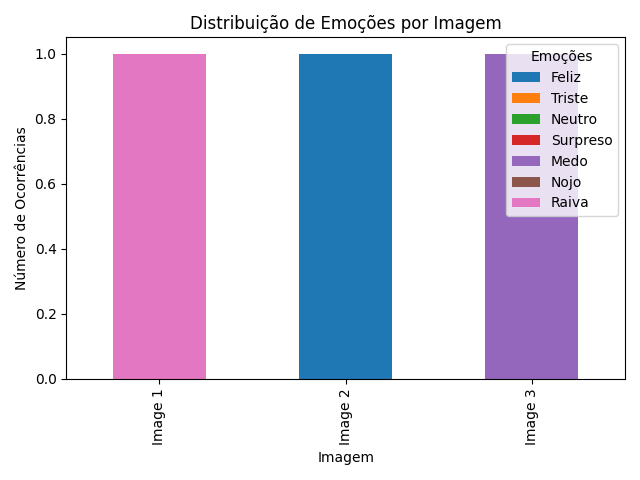
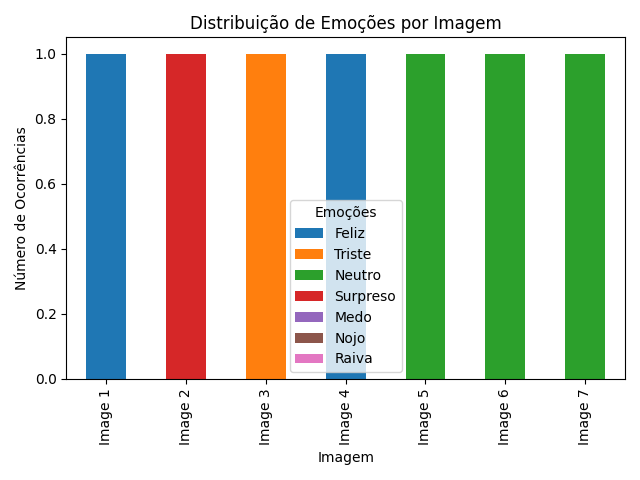
feat: add face reconize

diff --git a/relatorio_emocoes.html b/relatorio_emocoes.html
@@ -6,15 +6,13 @@
     </head>
     <body>
         <h1>Relatório de Emoções dos Alunos</h1>
-        <p><strong>Data:</strong> 18/06/2024 16:16</p>
-        <p><strong>Nome do Aluno:</strong> DEVE SER VARIAVEL</p>
+        <p><strong>Data:</strong> 18/06/2024 17:48</p>
         <p><strong>Professor:</strong> Prof. Claudionor</p>
         <p><strong>Instituição de Ensino:</strong> Universidade Adventista de São Paulo</p>
         <p><strong>Disciplina:</strong> Processamento de Imagens  Visão Computacional</p>
         
         <h2>Resumo Geral</h2>
         <p><strong>Duração da Aula:</strong> 60 minutos</p>
-        <p><strong>Emoção Predominante:</strong> DEVE SER VARIAVEL DE ACORDO COM A QUANTIADE DE IMAGENS QUE SERÃO PASSADA DO ALUNO</p>
 
         <h2>Distribuição de Emoções ao Longo da Aula</h2>
         <table border="1">
@@ -31,9 +29,9 @@
             
             <tr>
                 <td>Image 1</td>
-                <td>0</td>
-                <td>0</td>
                 <td>1</td>
+                <td>0</td>
+                <td>0</td>
                 <td>0</td>
                 <td>0</td>
                 <td>0</td> 
@@ -43,6 +41,30 @@
             
             <tr>
                 <td>Image 2</td>
+                <td>0</td>
+                <td>0</td>
+                <td>0</td>
+                <td>0</td>
+                <td>0</td>
+                <td>1</td> 
+                <td>0</td> 
+
+            </tr>
+            
+            <tr>
+                <td>Image 3</td>
+                <td>0</td>
+                <td>1</td>
+                <td>0</td>
+                <td>0</td>
+                <td>0</td>
+                <td>0</td> 
+                <td>0</td> 
+
+            </tr>
+            
+            <tr>
+                <td>Image 4</td>
                 <td>1</td>
                 <td>0</td>
                 <td>0</td>
@@ -54,14 +76,38 @@
             </tr>
             
             <tr>
-                <td>Image 3</td>
+                <td>Image 5</td>
                 <td>0</td>
                 <td>0</td>
                 <td>0</td>
                 <td>0</td>
-                <td>1</td>
+                <td>0</td>
                 <td>0</td> 
+                <td>1</td> 
+
+            </tr>
+            
+            <tr>
+                <td>Image 6</td>
+                <td>0</td>
+                <td>0</td>
+                <td>0</td>
+                <td>0</td>
+                <td>0</td>
                 <td>0</td> 
+                <td>1</td> 
+
+            </tr>
+            
+            <tr>
+                <td>Image 7</td>
+                <td>0</td>
+                <td>0</td>
+                <td>0</td>
+                <td>0</td>
+                <td>0</td>
+                <td>0</td> 
+                <td>1</td> 
 
             </tr>
             
@@ -70,7 +116,6 @@
         <!-- Imagens dos gráficos podem ser inseridas aqui -->
         <h2>Gráficos</h2>
         
-        <img src="graph_barras.png" alt="Gráfico de Barras">
         <img src="graph_linhas.png" alt="Linha do Tempo">
         <img src="graph_pizza.png" alt="Gráfico de Pizza">
 

diff --git a/result_stats.py b/result_stats.py
@@ -6,42 +6,31 @@ import pytz
 
 
 def buildReport(df):
-    # Passo 1: Preparar os Dados
-
-    # Exemplo de dados
-    # data = {
-    #     'image': ['image 1', 'image 2', 'image 3'],
-    #     'feliz': [1, 0, 1],
-    #     'triste': [0, 1, 0],
-    #     'neutro': [0, 0, 0]
-    # }
-
-    # df = pd.DataFrame(data)
-    # print(df)
-
     # Passo 2: Gerar Gráficos
     # Gráfico de Barras
 
-    # Gráfico de Barras Empilhadas
-    def plot_stacked_bar_chart(df):
-        df.set_index('Image')[['Feliz', 'Triste', 'Neutro','Surpreso','Medo','Nojo','Raiva']].plot(kind='bar', stacked=True)
-        plt.title('Distribuição de Emoções por Imagem')
-        plt.xlabel('Imagem')
-        plt.ylabel('Número de Ocorrências')
-        plt.legend(title='Emoções')
-        plt.tight_layout()
-        plt.savefig('graph_barras.png')
-        # plt.show()
-
-    # Linha do Tempo
-
     # Gráfico de Linhas
     def plot_line_chart(df):
-        df.set_index('Image')[['Feliz', 'Triste', 'Neutro','Surpreso','Medo','Nojo','Raiva']].plot(kind='line', marker='o')
+
+        emotion_sums = df[['Feliz', 'Triste', 'Neutro','Surpreso','Medo','Nojo','Raiva']].sum()
+
+        # Adicionando uma nova linha com os somatórios ao DataFrame
+        sum_row = pd.DataFrame(emotion_sums).T
+        sum_row['Image'] = 'Total'
+        df_extended = pd.concat([df, sum_row], ignore_index=True)
+
+        df_extended.set_index('Image')[['Feliz', 'Triste', 'Neutro','Surpreso','Medo','Nojo','Raiva']].plot(kind='line', marker='o')
         plt.title('Evolução das Emoções ao Longo das Imagens')
         plt.xlabel('Imagem')
         plt.ylabel('Número de Ocorrências')
         plt.legend(title='Emoções')
+        
+        y_min=0
+        y_max=4
+        # Definindo os limites do eixo Y, se fornecidos
+        if y_min is not None and y_max is not None:
+            plt.ylim(y_min, y_max)
+
         plt.tight_layout()
         plt.savefig('graph_linhas.png')
         # plt.show()
@@ -61,7 +50,6 @@ def buildReport(df):
         # plt.show()
 
     # Plotar os gráficos
-    plot_stacked_bar_chart(df)
     plot_line_chart(df)
     plot_pie_chart(df)
 
@@ -78,14 +66,12 @@ def buildReport(df):
     <body>
         <h1>Relatório de Emoções dos Alunos</h1>
         <p><strong>Data:</strong> {{ data_aula }}</p>
-        <p><strong>Nome do Aluno:</strong> {{ Nome_aluno }}</p>
         <p><strong>Professor:</strong> {{ professor }}</p>
         <p><strong>Instituição de Ensino:</strong> {{ Instituicao }}</p>
         <p><strong>Disciplina:</strong> {{ disciplina }}</p>
         
         <h2>Resumo Geral</h2>
         <p><strong>Duração da Aula:</strong> {{ duracao_aula }}</p>
-        <p><strong>Emoção Predominante:</strong> {{ emocao_predominante }}</p>
 
         <h2>Distribuição de Emoções ao Longo da Aula</h2>
         <table border="1">
@@ -117,7 +103,6 @@ def buildReport(df):
         <!-- Imagens dos gráficos podem ser inseridas aqui -->
         <h2>Gráficos</h2>
         
-        <img src="graph_barras.png" alt="Gráfico de Barras">
         <img src="graph_linhas.png" alt="Linha do Tempo">
         <img src="graph_pizza.png" alt="Gráfico de Pizza">
 
@@ -162,9 +147,7 @@ def buildReport(df):
         'professor': 'Prof. Claudionor',
         'disciplina': 'Processamento de Imagens  Visão Computacional',
         'Instituicao': 'Universidade Adventista de São Paulo',
-        'Nome_aluno': 'DEVE SER VARIAVEL',
         'duracao_aula': '60 minutos',
-        'emocao_predominante': 'DEVE SER VARIAVEL DE ACORDO COM A QUANTIADE DE IMAGENS QUE SERÃO PASSADA DO ALUNO',
         'distribuicao_emocoes': df.to_dict(orient='records'),
 
     }
@@ -216,7 +199,4 @@ def dataReport(original_data):
     buildReport(df)
 
 
-if __name__ == '__main__':
-    dados = [{'imagem': 'b09ac60b-2d9c-11ef-b2f8-80bf07906c97.jpg', 'expressao': 'Raiva'}, {'imagem': 'bc9fd905-2d9c-11ef-9252-80bf07906c97.jpg', 'expressao': 'Feliz'}, {'imagem': 'c2c8f9f4-2d9c-11ef-b14e-80bf07906c97.jpg', 'expressao': 'Medo'}]
-    dataReport(dados)
 

diff --git a/main.py b/main.py
@@ -1,0 +1,101 @@
+import cv2
+import numpy as np
+import pandas as pd
+import os
+import uuid
+import zipfile
+import tensorflow
+from tensorflow.keras.models import load_model
+from tensorflow.keras.preprocessing.image import img_to_array
+
+# Verifica se a pasta Modelo já existe, se não existir ela é extraída
+if not os.path.isdir('./Modelo'):
+    path = 'Modelo.zip'
+    zip_object = zipfile.ZipFile(file = path, mode = 'r')
+    zip_object.extractall('./')
+    zip_object.close
+
+cascade_faces = 'Modelo/haarcascade_frontalface_default.xml'
+caminho_modelo = 'Modelo/modelo_01_expressoes.h5'
+face_detection = cv2.CascadeClassifier(cascade_faces)
+classificador_emocoes = load_model(caminho_modelo, compile = False)
+expressoes = ['Raiva', 'Nojo', 'Medo', 'Feliz', 'Triste', 'Surpreso', 'Neutro']
+
+# Setup Pathsq
+CAPTURE_PATH = os.path.join('data', 'capture')
+
+# Verifica se existe menos que 3 fotos, se existir 3 ou mais não abre a câmera
+if len(os.listdir(CAPTURE_PATH)) < 3:
+    # Establish a connection to the webcam
+    cap = cv2.VideoCapture(0)
+    while cap.isOpened():
+        ret, frame = cap.read()
+        
+        # # Cut down frame to 250x250px
+        # frame = frame[120:120+250, 200:200+250, :]
+            
+        # Show image back to screen
+        cv2.imshow('Image Collection',frame)
+        
+        # Collect anchors
+        if cv2.waitKey(1) & 0XFF == ord('c'):
+            # Create the unique file path
+            imgname = os.path.join(CAPTURE_PATH, '{}.jpg'.format(uuid.uuid1()))
+            # Write out anchor image 
+            cv2.imwrite(imgname,frame)
+
+        # Breaking gracefully
+        if cv2.waitKey(1) & 0XFF == ord('q'):
+            break
+
+    # Release the webcam
+    cap.release()
+    # Close the image show frame
+    cv2.destroyAllWindows()
+
+resultados = []
+
+for nome_arquivo in os.listdir(CAPTURE_PATH):
+    imagem = cv2.imread(os.path.join(CAPTURE_PATH, nome_arquivo))
+    # cv2.imshow("Display", imagem)
+    # cv2.waitKey(0)
+    original = imagem.copy()
+    faces = face_detection.detectMultiScale(original, scaleFactor = 1.1,
+                                        minNeighbors = 3, minSize = (20,20))
+    
+    cinza = cv2.cvtColor(original, cv2.COLOR_BGR2GRAY)
+    # cv2.imshow("Display", cinza)
+    # cv2.waitKey(0)
+    for (x, y, l, a) in faces:
+        cv2.rectangle(original, (x,y), (x+l, y+a), (0, 255, 0), 2)
+        # cv2.imshow("Display", original)
+        # cv2.waitKey(0)
+        roi = cinza[y:y + a, x:x + l]
+        # cv2.imshow("Display", roi)
+        # cv2.waitKey(0)
+        roi = cv2.resize(roi, (48, 48))
+        # cv2.imshow("Display", roi)
+        # cv2.waitKey(0)
+        roi = roi.astype('float')
+        roi /= 255
+        roi = img_to_array(roi)
+        roi = np.expand_dims(roi, axis = 0)
+        preds = classificador_emocoes.predict(roi)[0]
+        emotion_probability = np.max(preds)
+        label = expressoes[preds.argmax()]
+
+        resultados.append({"imagem": nome_arquivo,"expressao":label})
+        
+        # > Imagem com label
+        # cv2.putText(original, label, (faces[0][0], faces[0][1]-10), cv2.FONT_HERSHEY_SIMPLEX, 0.65, 
+        #             (0,0,255), 2, cv2.LINE_AA)
+        # cv2.rectangle(original, (faces[0][0], faces[0][1]), (faces[0][0] + faces[0][2], faces[0][1] + faces[0][3]), (0,0,255), 2)
+        # cv2.imshow("Display", original)
+        # cv2.waitKey(0)
+    
+print(resultados)
+print(os.listdir(CAPTURE_PATH))
+
+from result_stats import dataReport
+
+dataReport(resultados)
